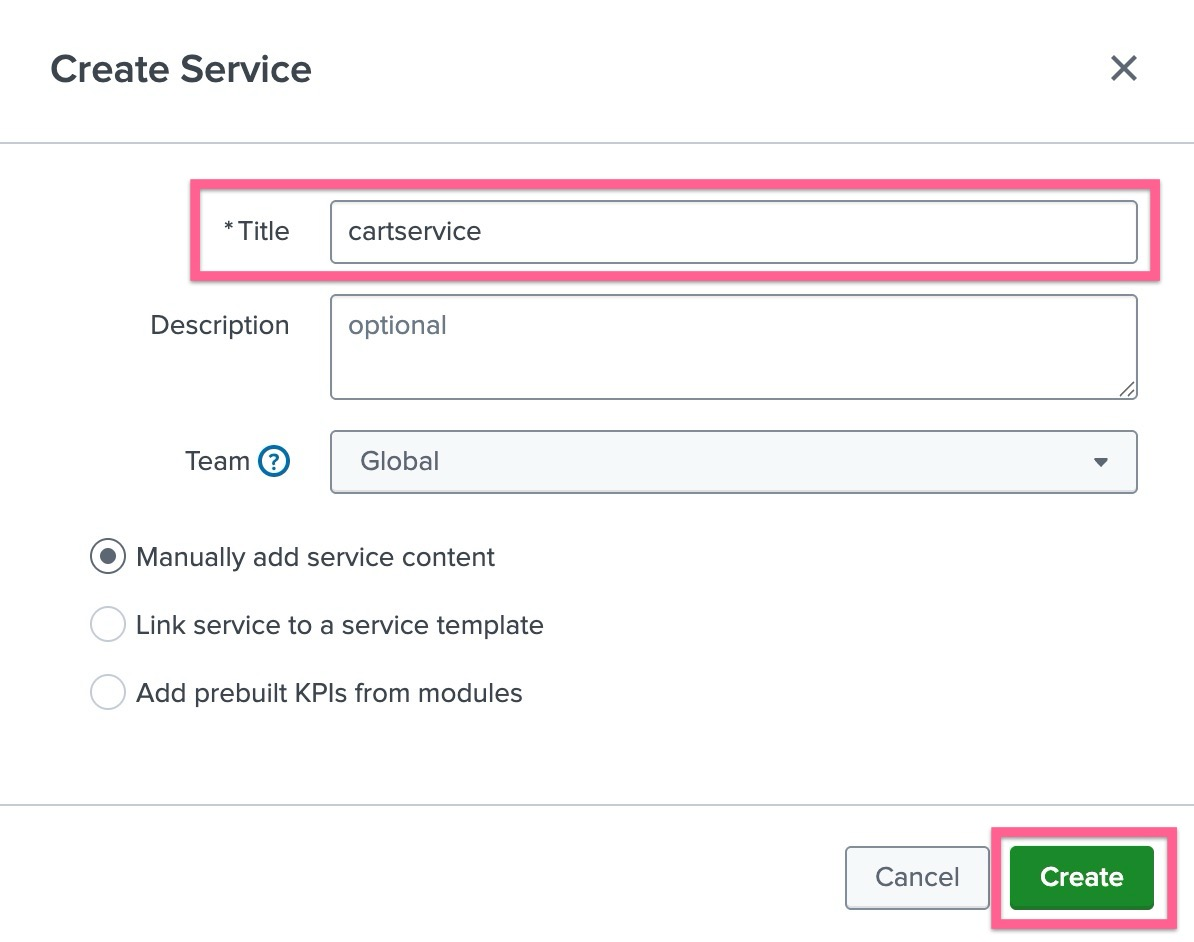
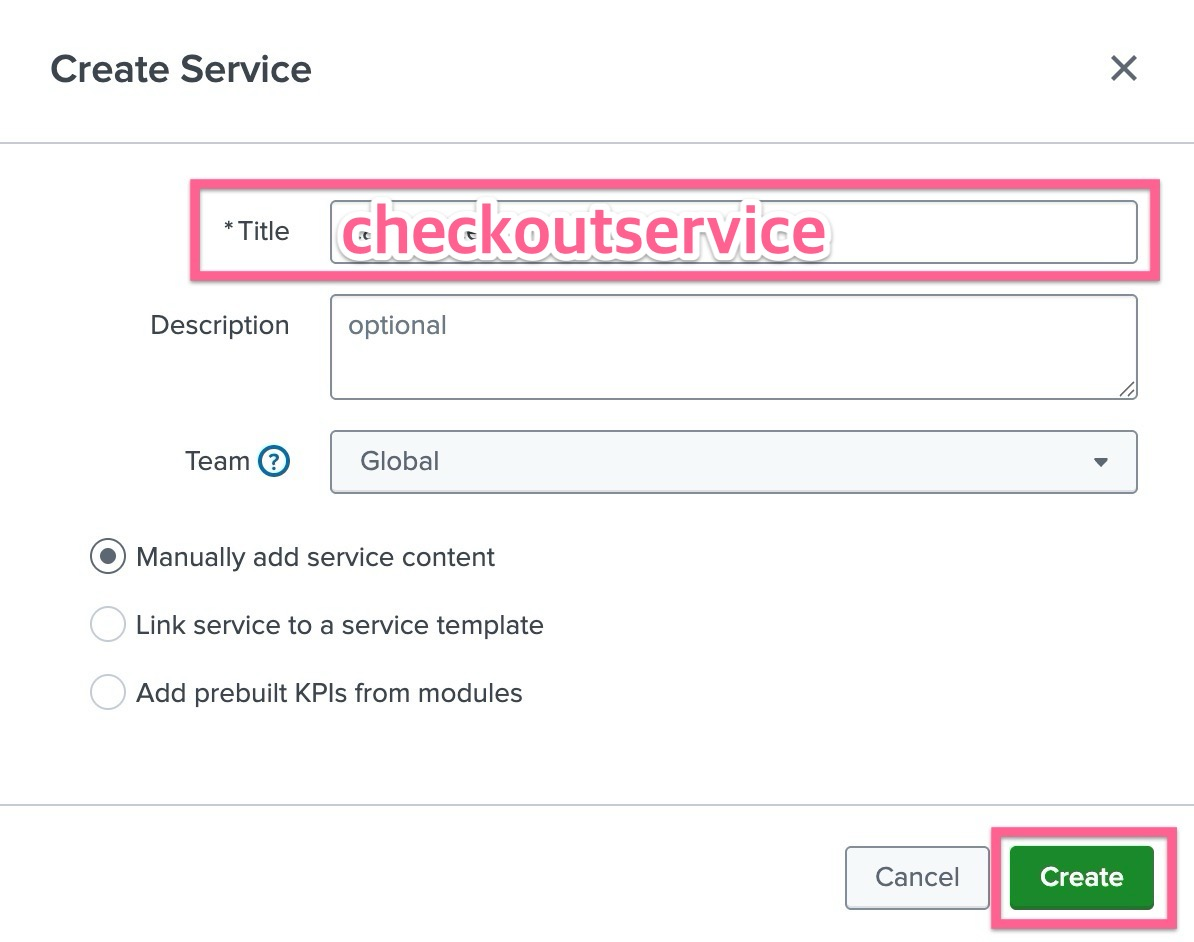
fix

Changed region(s): [[0.2789, 0.2155, 0.7127, 0.2771]]

diff --git a/src/2-Splunk4NinjasITSI/2-1-service-insights/2-1-4-ImplementService/2-1-4-index.md b/src/2-Splunk4NinjasITSI/2-1-service-insights/2-1-4-ImplementService/2-1-4-index.md
@@ -6,7 +6,9 @@
 
 - **[ITSI] > [Configurations] > [Service]** 페이지로 이동하여 **[Create Service] > [Create Service]** 버튼을 클릭합니다
 - 아래와 같이 내용을 입력하고 생성합니다
-  ![](../../../images/2-ninja-itsi/2-1-4-config3.jpg)
+
+  <img src="../../../images/2-ninja-itsi/2-1-4-config3.jpg" width="500" style="border: 1px solid #000; display: block; margin-left: 0;">
+
 - Title : checkoutservice 입력
 - Manually add service content 선택
 
@@ -15,11 +17,14 @@
 ## 2. KPI 생성하기
 
 - KPI 탭을 눌러 KPI 생성을 시작합니다. **[New] > [Generic KPI]** 선택
-  ![](../../../images/2-ninja-itsi/2-1-4-config4.jpg)
+
+  <img src="../../../images/2-ninja-itsi/2-1-4-config4.jpg" width="500" style="border: 1px solid #000; display: block; margin-left: 0;">
+
   - Title : CPU Utilizaion
   - KPI Source : Base Search 선택
   - Base Search : OBQ : Infrastructure 선택
   - Metric : cpu_utilization
+
 - 다른 설정은 진행하지 않고 **[Finish]** 버튼을 눌러 생성을 완료합니다
 - **[Save] > [Save and Enable]** 버튼을 누릅니다
 
@@ -132,7 +137,9 @@ Online Boutique (최상위 서비스)
 - 오른쪽 상위에 Tree View 버튼을 눌러, 타일이 아닌 트리형태의 뷰 타입으로 변경합니다
 - **[Save as...]** 버튼을 눌러 해당 service analyzer 를 저장합니다
 - 아래와 같이 내용 입력 후 생성을 완료합니다
-  ![](../../../images/2-ninja-itsi/2-1-4-config5.jpg)
+
+  <img src="../../../images/2-ninja-itsi/2-1-4-config5.jpg" width="500" style="border: 1px solid #000; display: block; margin-left: 0;">
+
 - 생성이 완료되었다면, **[ITSI] > [Service Analyzer] > [Analyzers]** 화면에서 목록에 표시됩니다
 
 </br>
@@ -148,7 +155,9 @@ index=itsi_summary
 ```
 
 - 이벤트 하나를 열어 안에 기록된 각 필드의 내용을 확인합니다
-  ![](../../../images/2-ninja-itsi/2-1-4-config6.jpg)
+
+  <img src="../../../images/2-ninja-itsi/2-1-4-config6.jpg" width="700" style="border: 1px solid #000; display: block; margin-left: 0;">
+
 - kpi 필드의 값을 검토하세요. KPI 이름과 서비스 상태 점수입니다.
 - alert_value 필드의 값을 검토하세요. KPI 검색에서 계산된 실제 값입니다.
 - serviceid 필드의 값을 검토하세요. 서비스 이름은 표시되지 않고, 대신 ID 값으로 서비스가 식별됩니다.

diff --git a/src/2-Splunk4NinjasITSI/2-1-service-insights/2-1-3-BaseSearches/2-1-3-index.md b/src/2-Splunk4NinjasITSI/2-1-service-insights/2-1-3-BaseSearches/2-1-3-index.md
@@ -92,7 +92,9 @@ Base Search를 공유하면 동시 검색 부하(Search Concurrency Load)를 줄
 - Splunk Cloud 에서 **[ITSI] > [Configurations] > [KPI Base Search]** 메뉴로 이동합니다
 - **[Create KPI Base Search]** 버튼을 클릭하여 생성을 시작합니다
 - Title : **_OBQ : Infrastructure_** 로 지정 후 **[Create]** 버튼을 누릅니다
-  ![](../../../images/2-ninja-itsi/2-1-3-config1.jpg)
+
+  <img src="../../../images/2-ninja-itsi/2-1-3-config1.jpg" width="700" style="border: 1px solid #000; display: block; margin-left: 0;">
+
 - Search Type : Ad hoc Search 선택
 - Search : 아래와 같이 입력
   ```bash
@@ -106,11 +108,14 @@ Base Search를 공유하면 동시 검색 부하(Search Concurrency Load)를 줄
   | table _time, k8s.pod.name, host, fs_usage, memory_usage, cpu_utilization
   ```
 - 아래 부분에 있는 [Add Metric] 버튼을 눌러 아래와 같이 입력합니다
-  ![](../../../images/2-ninja-itsi/2-1-3-config2.jpg)
-  - Title : container_cpu_utilization
+
+  <img src="../../../images/2-ninja-itsi/2-1-3-config2.jpg" width="400" style="border: 1px solid #000; display: block; margin-left: 0;">
+
+  - Title : cpu_utilization
   - Threshold Field : cpu_utilization
   - Unit : %
   - **[Done]** 을 눌러 생성을 완료하고 빠져나옵니다
+
 - 나머지 메트릭도 만들어줍니다
 - memory_usage, fs_usage
 
